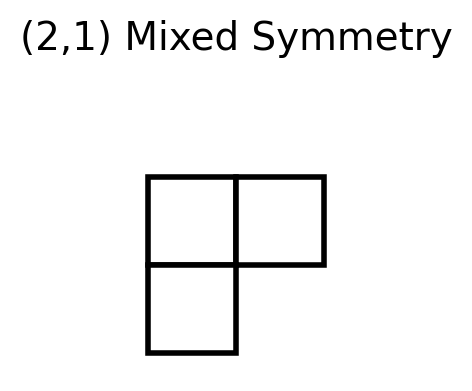
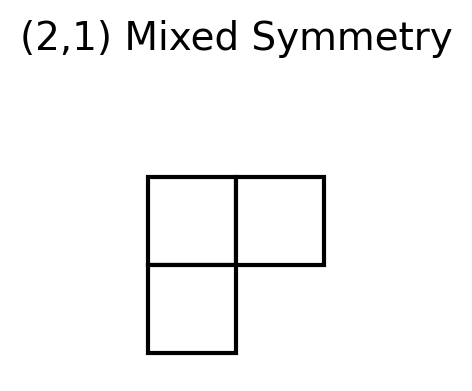
Use thinner lines for Young diagrams, reduce hook length diagram top whitespace

Changed region(s): [[0.2966, 0.4297, 0.6822, 0.9207], [0.4746, 0.6445, 0.5339, 0.7059], [0.6525, 0.6445, 0.6822, 0.6752]]

diff --git a/utils/generate_young_diagrams.py b/utils/generate_young_diagrams.py
@@ -16,7 +16,7 @@ from plot_style import setup_style, COLORS
 OUTPUT_DIR = 'docs/images/angular-momentum'
 
 def draw_young_diagram(ax, partition, labels=None, title='', box_size=1.0, 
-                       linewidth=2, edgecolor='black', facecolor='white',
+                       linewidth=1.5, edgecolor='black', facecolor='white',
                        label_color='black', label_fontsize=14):
     """
     Draw a Young diagram on the given axes.
@@ -27,6 +27,7 @@ def draw_young_diagram(ax, partition, labels=None, title='', box_size=1.0,
         labels: optional labels to put inside boxes
         title: title above the diagram
         box_size: size of each box
+        linewidth: line width for box edges (default 1.5, thinner)
     """
     # Calculate dimensions
     n_rows = len(partition)
@@ -67,7 +68,7 @@ def draw_young_diagram(ax, partition, labels=None, title='', box_size=1.0,
         ax.set_title(title, fontsize=12, pad=10, fontweight='normal')
 
 
-def draw_young_diagram_pure(ax, partition, box_size=1.0, linewidth=2, 
+def draw_young_diagram_pure(ax, partition, box_size=1.0, linewidth=1.5, 
                             edgecolor='black', facecolor='white'):
     """
     Draw a Young diagram without any labels or titles - just the boxes.
@@ -76,6 +77,7 @@ def draw_young_diagram_pure(ax, partition, box_size=1.0, linewidth=2,
         ax: matplotlib axes
         partition: list of row lengths
         box_size: size of each box
+        linewidth: line width for box edges (default 1.5, thinner)
     """
     # Calculate dimensions
     n_rows = len(partition)
@@ -193,25 +195,25 @@ def young_diagram_2particle_comparison():
 
 
 def young_diagram_with_hook_lengths():
-    """Generate minimal hook length diagram - very small, minimal whitespace."""
+    """Generate minimal hook length diagram - thin lines, minimal whitespace."""
     setup_style()
     
-    # Very small figure - minimal whitespace
-    fig = plt.figure(figsize=(1.6, 1.5))
-    # [left, bottom, width, height] - very tight
-    ax = fig.add_axes([0.05, 0.18, 0.9, 0.72])
+    # Small figure - minimal whitespace
+    fig = plt.figure(figsize=(1.4, 1.35))
+    # [left, bottom, width, height] - very tight, higher bottom to reduce top whitespace
+    ax = fig.add_axes([0.08, 0.25, 0.84, 0.68])
     
-    # Draw (2,1) diagram with hook length labels
+    # Draw (2,1) diagram with hook length labels - thin lines
     partition = [2, 1]
     hook_lengths = ['3', '1', '1']
     
-    # Draw the diagram with smaller labels
+    # Draw the diagram with thinner lines and smaller labels
     draw_young_diagram(ax, partition, labels=hook_lengths, title='',
-                       label_color='darkred', label_fontsize=11)
+                       label_color='darkred', label_fontsize=10, linewidth=1.2)
     
-    # Caption below - smaller font
-    fig.text(0.5, 0.06, r'$d = 3!/(3 \cdot 1 \cdot 1) = 2$',
-             ha='center', fontsize=8)
+    # Caption below - smaller font, positioned lower
+    fig.text(0.5, 0.08, r'$d = 3!/(3 \cdot 1 \cdot 1) = 2$',
+             ha='center', fontsize=7)
     
     filepath = os.path.join(OUTPUT_DIR, 'young_21_hook_lengths.png')
     fig.savefig(filepath, dpi=200, facecolor='white', edgecolor='none')
